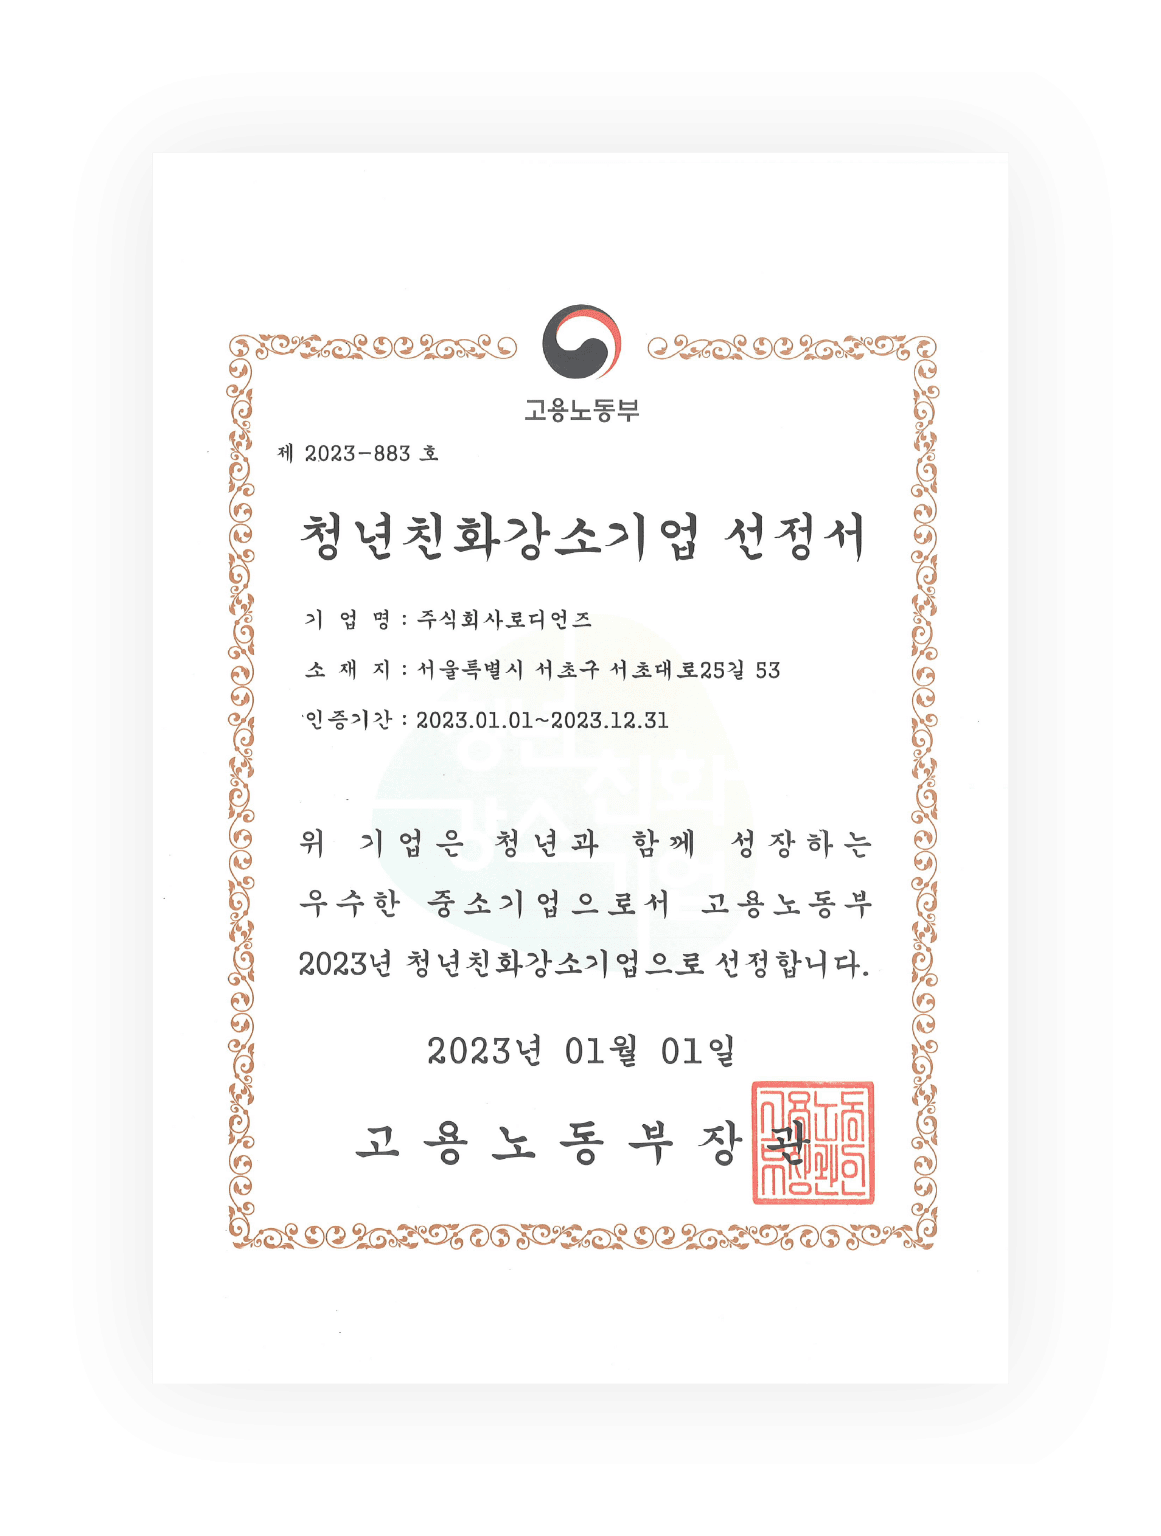
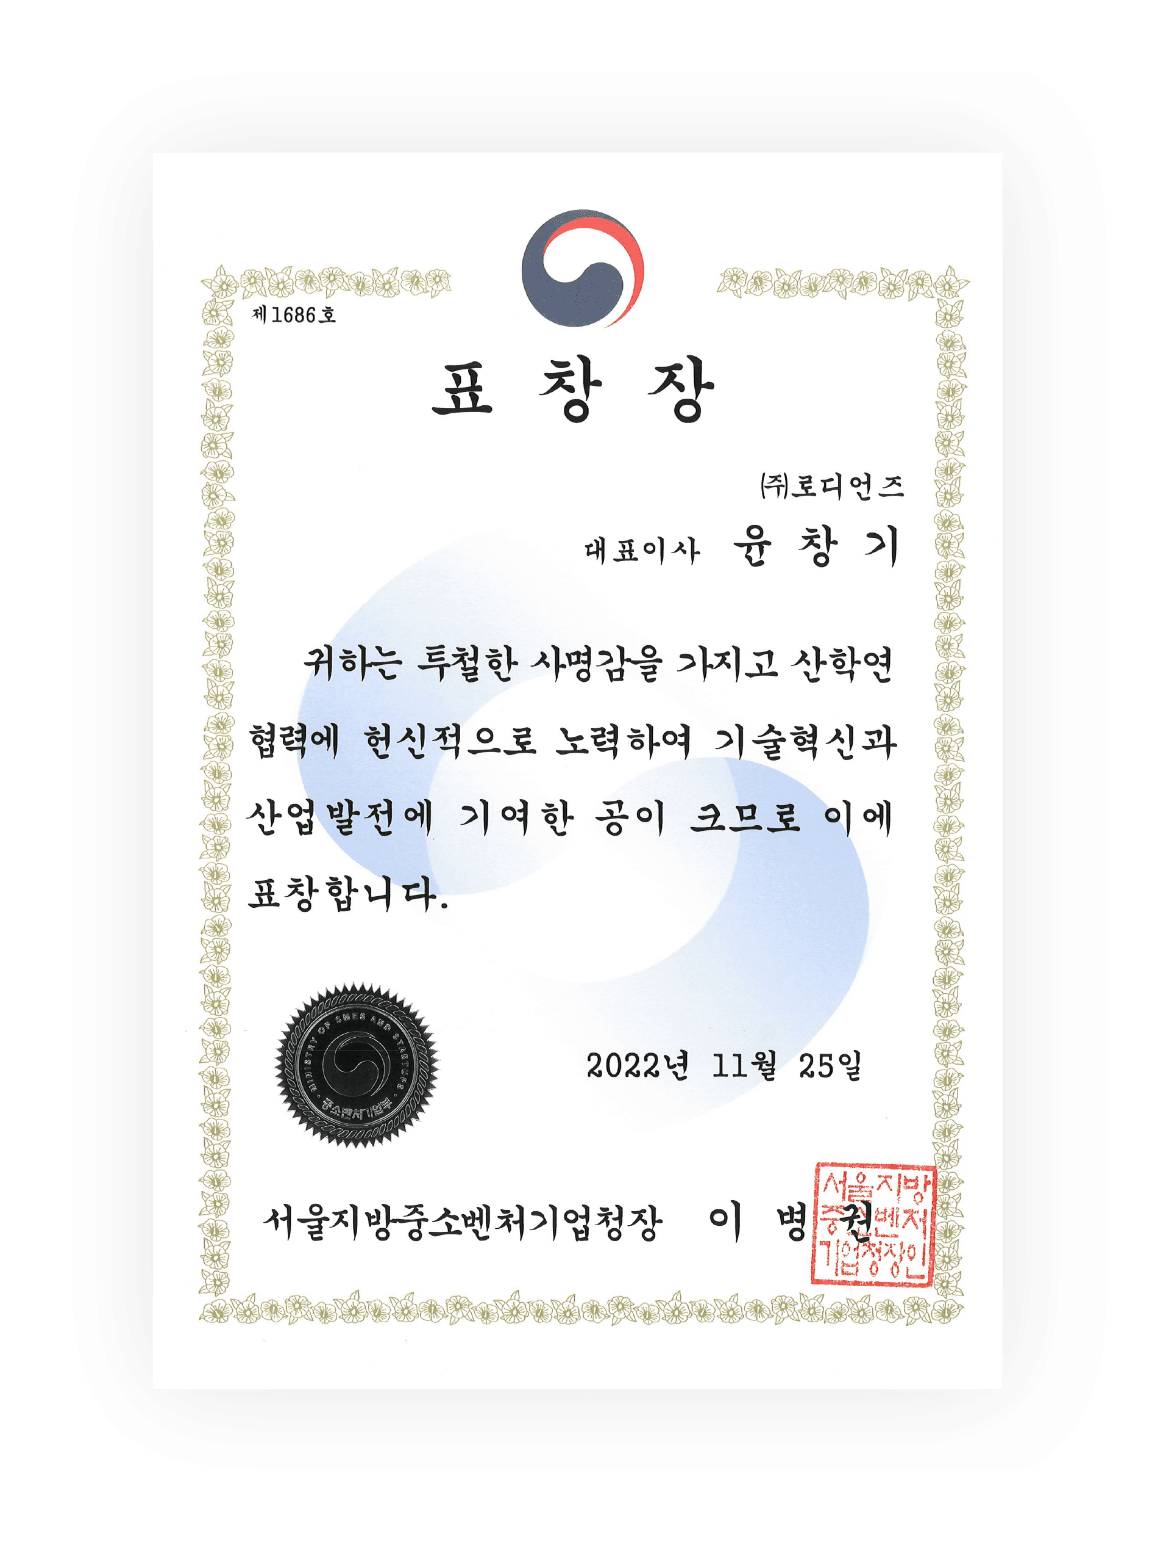
fix: 찐부 커뮤니티 링크 연결 fix: 인사말 탑 글자 크기 키움 fix: 인사말 멘트 수정 fix: 회사소개 멘트 수정 fix: 푸터 우편번호 추가 및 그에 따른 css 조정 fix: 서비스 멘트 수정 및 그에 따른 css 조정 fix: 문의하기 메일 답신 멘트 추가 fix: 상장 순서 및 멘트 순서 변경

Changed region(s): [[0.1558, 0.125, 0.8416, 0.875], [0.2494, 0.2812, 0.374, 0.3125]]

diff --git a/components/BusinessCategory/Business.tsx b/components/BusinessCategory/Business.tsx
@@ -54,14 +54,21 @@ export default function Business() {
   const imgname = ["lawdians", "miapet", "gru", "durian", "mirinae", "jjinbu"];
   const blockchane = [true, true, true, true, false, false];
   const btncolor = ["white", "black", "white", "white", "black", "white"];
-  const kakao = ["pf.kakao.com/_xmbekxl", "", "", "", "", ""];
+  const kakao = [
+    "pf.kakao.com/_xmbekxl",
+    "",
+    "",
+    "",
+    "",
+    "pf.kakao.com/_xlhBxixj/98428373",
+  ];
   const insta = [
     "www.instagram.com/lawdians_official/",
     "www.instagram.com/miapet.kr/?hl=ko",
     "www.instagram.com/gru.krwg/",
     "",
     "www.instagram.com/mirinecare/",
-    "",
+    "www.instagram.com/zzinbu_official/",
   ];
   const facebook = [
     "www.facebook.com/Lawdians/",
@@ -69,7 +76,7 @@ export default function Business() {
     "www.facebook.com/Gru2021",
     "",
     "",
-    "",
+    "www.facebook.com/profile.php?id=100089426176220",
   ];
   const youtube = [
     "www.youtube.com/channel/UCsGBQPD4GhXbDI1Z84Izz6A/featured",
@@ -77,7 +84,7 @@ export default function Business() {
     "www.youtube.com/@krwg4685",
     "",
     "",
-    "",
+    "www.youtube.com/@zzinbu",
   ];
   const naver = [
     "blog.naver.com/ruvbmk80",
@@ -85,9 +92,9 @@ export default function Business() {
     "blog.naver.com/nettongrung",
     "",
     "blog.naver.com/mirinaecare",
-    "",
+    "blog.naver.com/zzinbu",
   ];
-  const band = ["", "", "", "", "band.us/@mirinecare", ""];
+  const band = ["", "", "", "", "band.us/@mirinecare", "band.us/page/90035703"];
   const homepath = [
     "www.lawdians.com",
     "miapet.kr",

diff --git a/components/Footer/Footer.module.scss b/components/Footer/Footer.module.scss
@@ -2,7 +2,8 @@
 
 .container {
   width: 100vw;
-  height: 358px;
+  height: 19vw;
+  min-height: 250px;
   background-color: #f5f5f5;
   color: #8b8b8b;
   display: flex;
@@ -39,10 +40,10 @@
 }
 
 .left_container {
-  width: 50%;
   height: 100%;
   padding-left: 65px;
-  position: relative;
+  display: flex;
+  align-items: center;
   @include view("very_small") {
     padding-left: 15px;
     height: 50%;
@@ -58,7 +59,6 @@
 }
 
 .left_wrap {
-  position: absolute;
   bottom: 90px;
   @include view("very_small") {
     bottom: auto;
@@ -96,10 +96,14 @@
 }
 
 .right_container {
-  width: 50%;
   height: 100%;
-  padding-left: 55px;
-  position: relative;
+  padding-left: 20vw;
+  display: flex;
+  align-items: center;
+  margin-top: -20px;
+  @include view("small") {
+    padding-left: 10vw;
+  }
   @include view("very_small") {
     padding-left: 15px;
     width: 100%;
@@ -113,7 +117,6 @@
 }
 
 .right_wrap {
-  position: absolute;
   bottom: 90px;
   display: flex;
   flex-direction: column;
@@ -164,11 +167,28 @@
 
 .address_box {
   color: #888;
+  display: flex;
   &::before {
     content: "|";
     margin: 0 5px;
     @include view("mobile") {
       display: none;
     }
+  }
+}
+
+.flex {
+  display: flex;
+  margin-bottom: 20px;
+  font-weight: 500;
+  @include view("mobile") {
+    flex-direction: column;
+    margin-bottom: 10px;
+  }
+}
+
+.pc {
+  @include view("mobile") {
+    display: none;
   }
 }

diff --git a/components/CompanyCategory/Greetings/Greetings.tsx b/components/CompanyCategory/Greetings/Greetings.tsx
@@ -32,20 +32,24 @@ export default function Greetings() {
                 <div className={cx("bold")}>로디언즈홀딩스</div>는 2016년에
                 설립하여&nbsp;
                 <div className={cx("bold")}>
-                  &apos;시스템 개발&apos; 및 &apos;운영 관리 시스템&apos;
+                  &apos;블록체인 시스템 개발&apos;
                 </div>
-                을 자체적으로 개발, 운영해왔으며,
-                <br />
+                <div>&nbsp;및&nbsp;</div>
+              </div>
+              <div className={cx("bold")}>
+                &apos;운영 관리 시스템&apos;을 자체적으로 개발, 운영해왔으며,
               </div>
               <div className={cx("line_one")}>
                 <div className={cx("bold")}>
                   &apos;블록체인 R&D 2회 선정&apos;
                 </div>
                 의 이력을 통해&nbsp;
+              </div>
+              <div className={cx("line_one")}>
                 <div className={cx("bold")}>
-                  블록체인에 대한 이해도가 높은 기업
+                  국내 최고의 블록체인기술을 보유한 기업
                 </div>
-                입니다.
+                <div>입니다.</div>
               </div>
             </>
           ) : (

diff --git a/components/LandingPage/Body/Service/Service.tsx b/components/LandingPage/Body/Service/Service.tsx
@@ -33,11 +33,15 @@ export default function Service({ isPc }: Props) {
       가상 자산 블록체인 지갑 서비스입니다.
     </>,
     <>
-      <span>&apos;두리안&apos;</span>은 다양한 물건을
+      <span>&apos;두리안&apos;</span>은 블록체인 분산원장
       <br />
-      보다 싸게 구매 가능한
+      기술이 적용된 포인트로
       <br />
-      지갑 쇼핑몰 서비스입니다.
+      다양한 물건을 보다
+      <br />
+      저렴하게 구매 가능한
+      <br />
+      쇼핑몰 서비스입니다.
     </>,
     <>
       <span>&apos;미리내검진&apos;</span>은 건강검진을
@@ -47,11 +51,15 @@ export default function Service({ isPc }: Props) {
       검진 예약 서비스입니다.
     </>,
     <>
-      <span>&apos;찐부&apos;</span>는 내 실 소유의
+      <span>&apos;찐부&apos;</span>는 내 소유의 자산을
       <br />
-      매물만 확인 또는 홍보 가능한
+      소유자인증 제도를 통해
       <br />
-      부동산 정보 커뮤니티 사이트입니다.
+      홍보가 가능한 허위매물없는
+      <br />
+      부동산 정보 커뮤니티
+      <br />
+      사이트입니다.
     </>,
   ];
   const links = [

diff --git a/components/CompanyCategory/Introduce/Introduce.tsx b/components/CompanyCategory/Introduce/Introduce.tsx
@@ -8,10 +8,10 @@ const cx = className.bind(styles);
 export default function Introduce() {
   const years = [2023, 2022, 2021, 2020, 2019, 2018, 2017, 2016];
   const testimonial = [
+    "청년친화강소기업 선정",
+    "서울지방중소기업청 우수기업표창",
     "정보보호 관리체계 인증",
     "대한민국 국회 표창",
-    "서울지방중소기업청 우수기업표창",
-    "청년친화강소기업 선정",
   ];
   const contents = [
     <div key={1} className={cx("content")}>
@@ -99,13 +99,7 @@ export default function Introduce() {
         </div>
         <div className={cx("bottom_wrap")}>
           <div className={cx("bottom")}>
-            <div className={cx("title")}>
-              로디언즈홀딩스
-              <div className={cx("mobile_title")}>
-                <br />
-              </div>
-              자격 및 인증서
-            </div>
+            <div className={cx("title")}>로디언즈홀딩스의 발자취</div>
             <div className={cx("content_container")}>
               <div className={cx("year")}>
                 {years.map((year) => (

diff --git a/components/Footer/Footer.tsx b/components/Footer/Footer.tsx
@@ -20,8 +20,11 @@ export default function Footer() {
           </div>
           <div className={cx("information")}>
             <p>(주)로디언즈홀딩스 | 대표이사 윤창기 </p>
-            <div className={cx("address_box")}>
-              서울특별시 서초구 서초대로 25길 53 | 사업자번호 544-81-02278
+          </div>
+          <div className={cx("flex")}>
+            <div>서울특별시 서초구 서초대로 25길 53 | 우편번호 06586&nbsp;</div>
+            <div>
+              <span className={cx("pc")}>|&nbsp;</span>사업자번호 544-81-02278
             </div>
           </div>
           <p className={cx("reserved")}>

diff --git a/components/PostQuestion/PostQuestion.tsx b/components/PostQuestion/PostQuestion.tsx
@@ -116,8 +116,12 @@ export default function PostQuestion() {
           }}
           className={cx("input_content")}
         />
-        {content.length > 0 && content.length < 20 && (
+        {content.length > 0 && content.length < 20 ? (
           <span className={cx("notice")}>내용을 20글자 이상 작성해주세요.</span>
+        ) : (
+          <span className={cx("notice_black")}>
+            작성해주신 이메일을 통해 빠른 시일 내로 답변 드리겠습니다.
+          </span>
         )}
       </div>
       <div className={cx("btn_wrap")}>

diff --git a/components/PostQuestion/PostQuestion.module.scss b/components/PostQuestion/PostQuestion.module.scss
@@ -216,3 +216,12 @@
 .Toastify__bounce-exit--bottom-right {
   animation-name: Toastify__bounceOut;
 }
+
+.notice_black {
+  color: black;
+  font-size: 18px;
+  margin-top: 5px;
+  @include view("mobile") {
+    font-size: 12px;
+  }
+}

diff --git a/components/CompanyCategory/Greetings/Greetings.module.scss b/components/CompanyCategory/Greetings/Greetings.module.scss
@@ -9,7 +9,7 @@
 .top_content_wrap {
   width: 100vw;
   height: 259px;
-  font-size: 20px;
+  font-size: 1.5vw;
   display: flex;
   flex-direction: column;
   justify-content: center;

diff --git a/components/LandingPage/Body/Service/ServiceCard/ServiceCard.module.scss b/components/LandingPage/Body/Service/ServiceCard/ServiceCard.module.scss
@@ -74,7 +74,8 @@
 
 .content_wrap {
   font-size: 18px;
-  margin-bottom: 64px;
+
+  height: 130px;
   span {
     font-weight: bold;
   }
